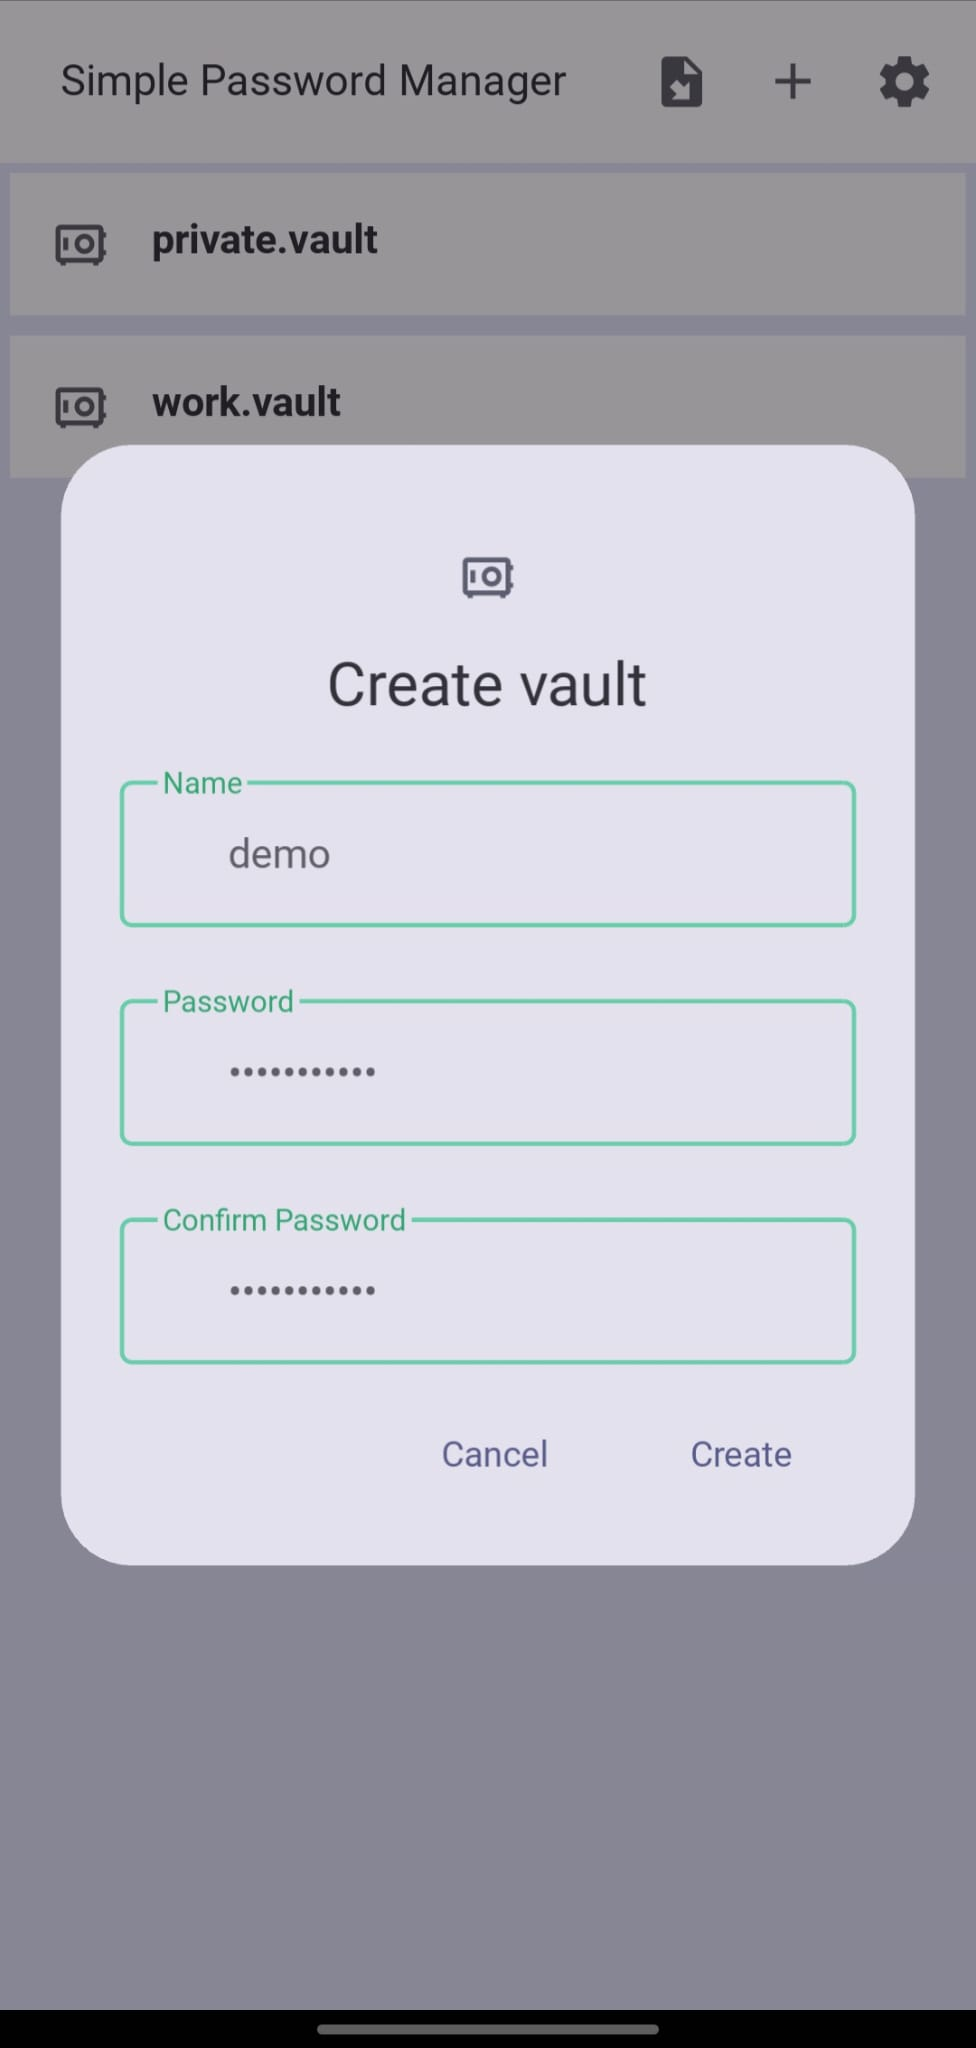
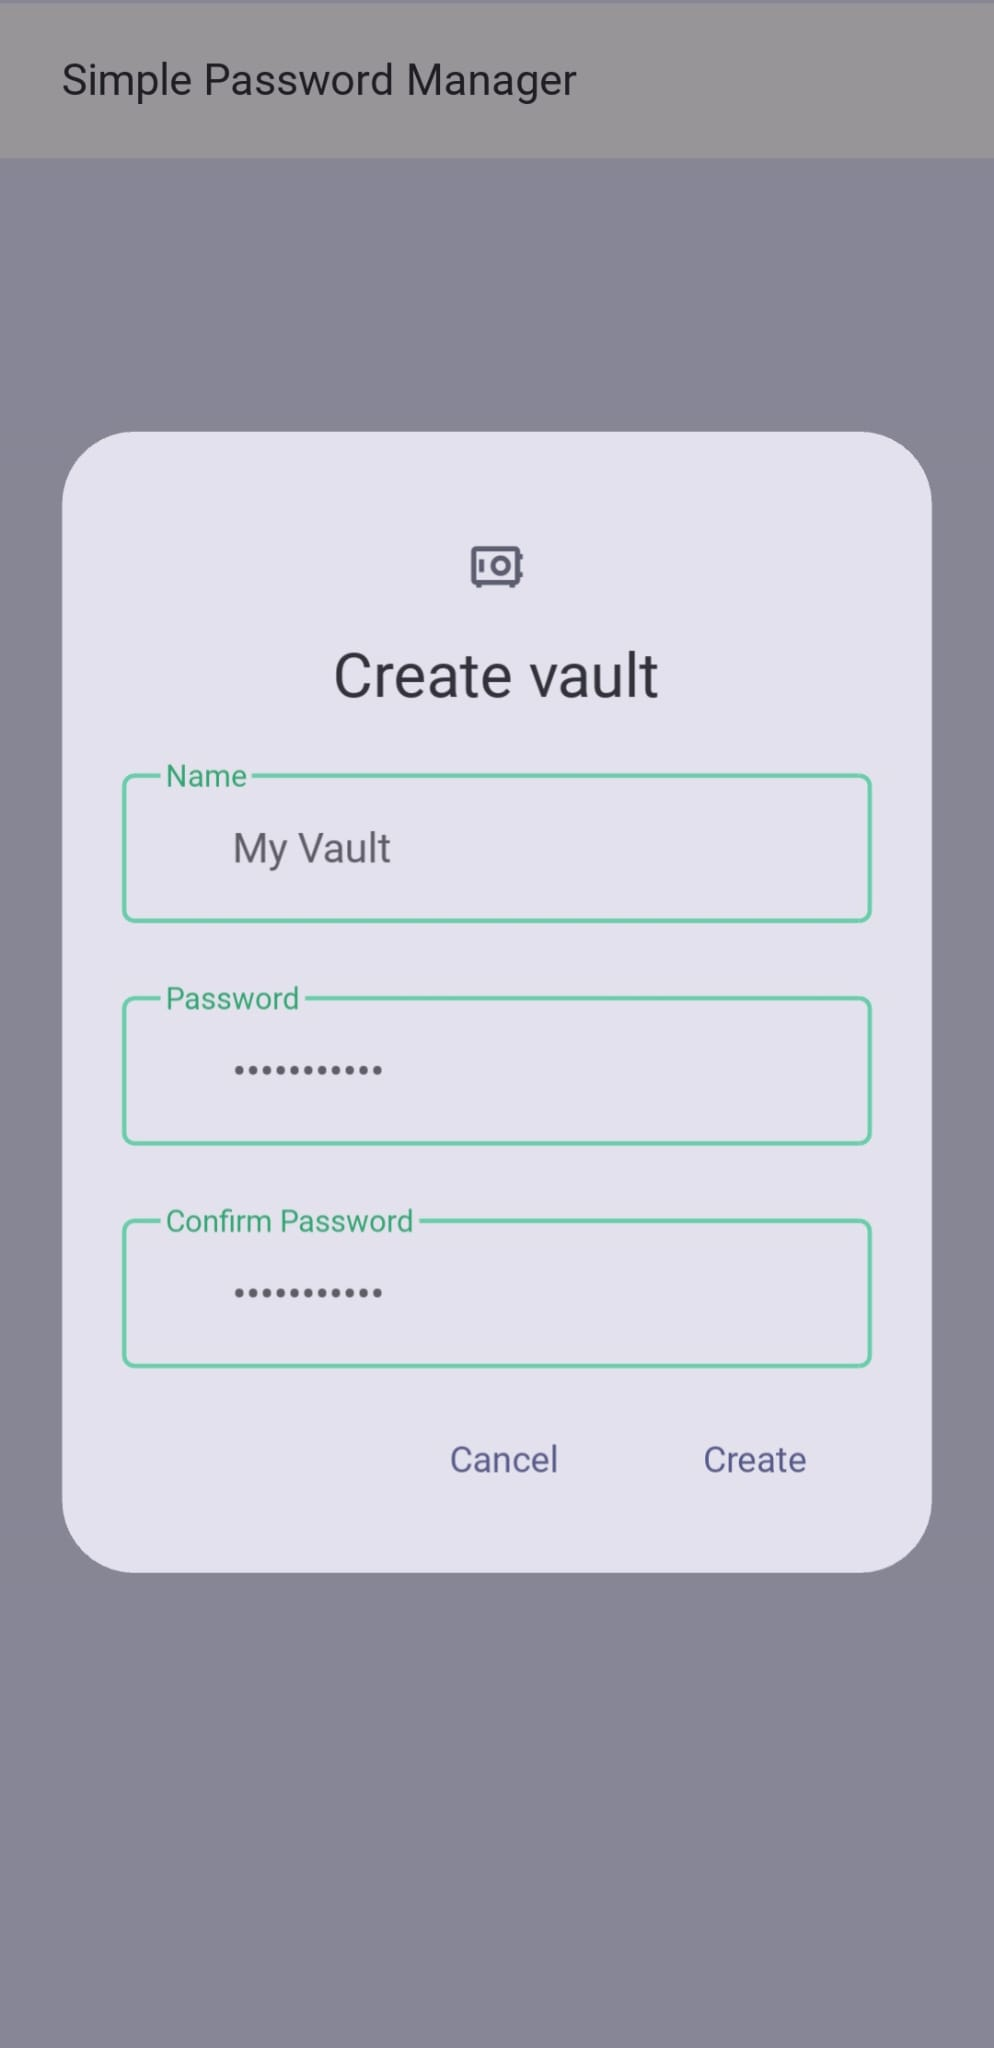
Updated docs, README and assets

diff --git a/core/vault_loader.py b/core/vault_loader.py
@@ -83,7 +83,6 @@ class VaultSession:
 	"""
 		@raises:
 			- PasswordRequirementsError(reason)
-			- FileNotFoundError(path) [OSError]
 			- KeyLengthError
 			- KeyDerivationError
 			- OverflowError
@@ -96,7 +95,7 @@ class VaultSession:
 		settings	: Settings
 	):
 		satisfies, reason = password_satisfies_explicit_conditions(password)
-		
+
 		if not satisfies:
 			raise PasswordRequirementsError(
 				reason=reason

diff --git a/README.md b/README.md
@@ -2,42 +2,45 @@
 
 A local password manager written in Python with two frontends: a **Kivy/KivyMD graphical interface** for desktop and Android, and a **terminal interface** for command-line use.
 
+Vault data remains local and is protected using Argon2id-derived keys and authenticated encryption.
+
 ## App Preview
 
 <p align="center">
-  <img src="docs/screenshots/vaults.jpeg" width="30%" alt="Vault selection">
+  <img src="docs/screenshots/setup-vault.jpeg" width="30%" alt="Initial vault setup">
   <img src="docs/screenshots/create-vault.jpeg" width="30%" alt="Create vault">
   <img src="docs/screenshots/unlock-vault.jpeg" width="30%" alt="Unlock vault">
 </p>
 
 <p align="center">
   <img src="docs/screenshots/add-account.jpeg" width="30%" alt="Add account">
-  <img src="docs/screenshots/accounts.jpeg" width="30%" alt="Account list">
   <img src="docs/screenshots/account-details.jpeg" width="30%" alt="Account details">
+  <img src="docs/screenshots/totp-setup.jpeg" width="30%" alt="Set up TOTP">
+</p>
+
+<p align="center">
+  <img src="docs/screenshots/totp-enabled.jpeg" width="30%" alt="Account with active TOTP">
+  <img src="docs/screenshots/settings.jpeg" width="30%" alt="Settings menu">
 </p>
 
 ## Features
 
-* Local encrypted `.vault` files protected by a master password
-* Create, import and manage multiple vaults
-* Add, modify and delete account entries
-* Copy account information directly from the GUI
-* Password generation
-* Account entry search **(currently CLI-only)**
-* Inactivity watchdog **(currently CLI-only)**
-* TOTP / two-factor authentication support  **(currently CLI-only)**
-* **Argon2id** key derivation
-* **AES-GCM** authenticated encryption
-* Atomic vault writes
-* Graphical interface using **Kivy / KivyMD**
-* Full command-line interface
-* Android support
+* Local encrypted vault protected by a master password
+* Account creation, modification, deletion, search and clipboard actions
+* Configurable password generation and TOTP support, including QR-code setup
+* Vault creation, import, export and master-password changes
+* Configurable inactivity locking, lock-on-minimize behavior and light/dark theme
+* Desktop/Android GUI and a full CLI built on the same backend
 
-## Two Interfaces, One Core
+## Design
 
-Both interfaces use the same underlying password-management, cryptography and storage code.
+The project separates presentation from application logic. The `gui/` and `cli/` packages are independent frontends built around the same `core/` implementation and vault format, while filesystem and QR-code helpers live in `storage/`.
 
-### Graphical Interface
+A `VaultSession` coordinates key derivation, vault loading and persistence. The master password is processed with **Argon2id**, then purpose-specific subkeys are derived for vault encryption and settings authentication. Vault contents use **AES-GCM**, while settings are authenticated with **HMAC**.
+
+Vault updates use temporary files followed by atomic replacement. The GUI performs vault synchronization outside the main UI thread and includes inactivity locking to reduce the time an unlocked vault remains accessible.
+
+## Graphical Interface
 
 Launching the application without arguments starts the GUI:
 
@@ -45,20 +48,13 @@ Launching the application without arguments starts the GUI:
 python main.py
 ```
 
-The GUI supports:
+On first launch, the user can create a new vault or import an existing one. Once a vault exists, the application opens into the unlock flow.
 
-* Vault selection
-* Vault creation and import
-* Master-password authentication
-* Account creation, modification and deletion
-* Account detail views
-* Clipboard actions
+The GUI provides account management and search, password generation, clipboard actions, TOTP setup and display, vault import/export, settings, and automatic locking.
 
-The GUI also includes some responsiveness-oriented implementation details: account entries are loaded in batches rather than all at once, and vault changes are encrypted and synchronized outside the main UI thread.
+## Command-Line Interface
 
-### Command-Line Interface
-
-Passing a vault path starts the original terminal interface:
+Passing a vault path starts the terminal interface:
 
 ```bash
 python main.py my.vault
@@ -70,72 +66,37 @@ A new vault can be created with:
 python main.py my.vault --create
 ```
 
-The CLI provides entry management, searching, password generation, TOTP retrieval, clipboard support, manual saving and an inactivity watchdog.
+The CLI exposes the same core vault functionality through a terminal interface, including account management, search, password generation, TOTP, settings, master-password changes, saving and inactivity locking.
 
 ## Project Structure
 
 ```text
 simple_password_manager/
 ├── main.py                  # Selects GUI or CLI
-│
-├── core/                    # Interface-independent application logic
-│   ├── encrypt.py           # AES-GCM encryption/decryption
-│   ├── entry.py             # Password-entry model
-│   ├── errors.py            # Application-specific exceptions/logging
-│   ├── keys.py              # Argon2id key derivation
-│   ├── pwd_manager.py       # Vault and entry management
-│   └── totp.py              # TOTP parsing and generation
-│
-├── storage/
-│   └── io.py                # Vault filesystem operations
-│
+├── core/                    # Password manager, crypto, settings and vault session
+├── storage/                 # Filesystem, constants and QR-code helpers
 ├── cli/                     # Terminal frontend
-│   ├── main.py
-│   ├── actions.py
-│   ├── display.py
-│   ├── input.py
-│   ├── util.py
-│   └── watchdog.py
-│
 ├── gui/                     # Kivy/KivyMD frontend
-│   ├── main.py
-│   ├── screens/             # Application screens and navigation
-│   ├── dialogs/             # Vault/account dialogs
-│   ├── widgets/             # Reusable UI components
-│   ├── utils/               # GUI-specific helpers
-│   └── design/              # UI design resources
-│
+├── docs/
+│   └── screenshots/
 ├── requirements.txt
-└── APK_Build_README.md
+├── APK_Build_README.md
+└── LICENSE
 ```
-
-The main architectural goal is to keep **presentation separate from application logic**.
-
-The `gui/` and `cli/` packages are two independent frontends built around the same `core/` password manager and encrypted vault format. Filesystem-related operations are kept in the `storage/` layer.
 
 ## Security Design
 
 The master password itself is never stored.
 
-Instead, it is used with **Argon2id** to derive a 256-bit encryption key. Vault contents are encrypted and authenticated using **AES-GCM**.
+Argon2id derives the master key using a per-vault salt. Separate subkeys are then used for vault encryption and settings authentication. Vault contents are encrypted and authenticated with AES-GCM using a 256-bit key and a fresh nonce for each encryption operation.
 
-An encrypted vault contains the salt, nonce, ciphertext and associated data required for decryption.
+Settings are stored alongside the encrypted vault data and authenticated with HMAC so modification can be detected before the settings are trusted.
 
-Each encryption operation generates a fresh nonce.
-
-Vault updates use a temporary file followed by an atomic replacement of the previous vault. This reduces the chance of destroying an existing vault if a write fails partway through.
-
-Passwords and TOTP secrets still exist in process memory while an unlocked vault is being used, and copied values may remain in the system clipboard or clipboard history.
+Passwords, derived keys and TOTP secrets still exist in process memory while a vault is unlocked. Copied values may also remain in the system clipboard or clipboard history.
 
 ## Technology
 
-* Python 3
-* Kivy 2.3.1
-* KivyMD 2.0.0
-* cryptography
-* Argon2
-* PyOTP
-* Buildozer / python-for-android
+The project uses Python 3.13, Kivy 2.3.1, KivyMD 2.0.0, `cryptography`, `argon2-cffi`, PyOTP, ZXing-C++, `prompt-toolkit`, Buildozer and python-for-android.
 
 The Android build process has been tested with Python 3.13.15.
 
@@ -185,9 +146,7 @@ sudo apt install xclip
 
 The application can be packaged for Android using Buildozer and python-for-android.
 
-Because some native dependencies require additional Android build configuration, the complete setup, known issues and workarounds are documented separately in:
-
-`APK_Build_README.md`
+The complete Android setup, known issues and workarounds are documented in `APK_Build_README.md`.
 
 ## Security Notice
 
@@ -197,20 +156,16 @@ It should therefore not be relied upon as a production password manager or as th
 
 ## Current Limitations
 
-* No browser integration or autofill
-* No automatic clipboard clearing
-* No cross-device synchronization
-* No formal security audit
+There is currently no browser integration or autofill, automatic clipboard clearing, cross-device synchronization, or formal security audit.
+
+## License
+
+The source code is licensed under the **MIT License**. See `LICENSE`.
+
+Third-party assets are licensed separately and are not automatically covered by the project's MIT License. See `assets/ATTRIBUTION.md` for attribution and licensing information for the application icon.
 
 ## About the Project
 
-This project was developed to gain practical experience with:
+This project was developed as a practical software-engineering and security project, with a focus on application architecture, applied cryptography, concurrent tasks, UI responsiveness and cross-platform Python development.
 
-* Object-oriented programming
-* Structured programming
-* Application architecture and separation of concerns
-* Multithreading and concurrent tasks
-* UI responsiveness
-* Cross-platform Python development
-
-The application code in this repository was written by the author. The automated test suite available on a separate testing branch was initially generated with assistance from an AI agent and subsequently reviewed and adapted to the project's implementation.
+The application code in this repository was written by the author. The automated test suite was initially generated with assistance from an AI agent and subsequently reviewed and adapted to the project's implementation.

diff --git a/assets/ATTRIBUTION.md b/assets/ATTRIBUTION.md
@@ -1,0 +1,6 @@
+Safe icon by Smashicons
+Source: Flaticon
+https://www.flaticon.com/free-icon/safe_2489398
+
+Licensed separately under the Flaticon License.
+This asset is not covered by the repository's MIT License.
